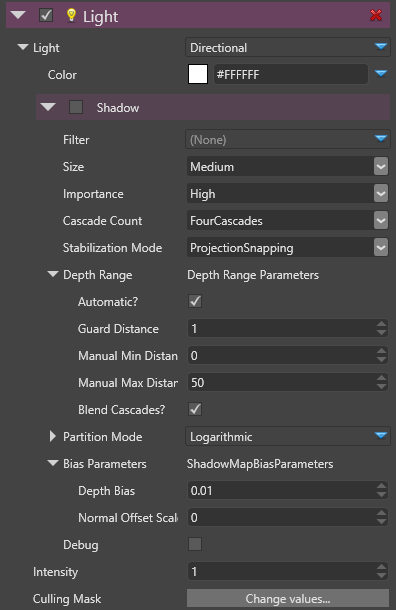
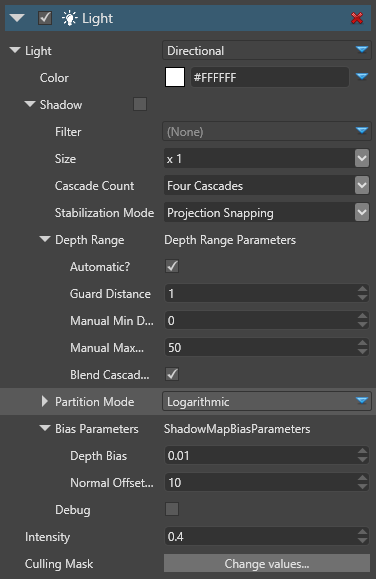
[Graphics] Update for shadow importance removal

diff --git a/manual/graphics/lighting-and-shadows/directional-lights.md b/manual/graphics/lighting-and-shadows/directional-lights.md
@@ -102,10 +102,9 @@ The colors shows the selected cascade texture for each distance range (Green:0, 
 | Filter              | Filtering allows to produce **soft shadows** instead of **hard shadows**. Currently, the implemented technique is PCF (Percentage Closer Filtering)                                                                               |
 |                     |                                                                                                                                                                                                                                   |
 |                     | *Note: Other techniques will be added*                                                                                                                                                                                            |
-| Size                | The size of the shadow map texture. Values are **large**, **medium** and **small**.                                                                                                                                               |
-| Importance          | The visual importance of this shadow map. Values are **high**, **medium** and **low**. See [shadow map atlas size calculation](shadows-optimizations.md) for details.                                                             |
+| Size                | The size of the shadow map texture. Values are **extra large**, **large**, **medium**, **small** and **extra small**. See [shadow map atlas size calculation](shadows-optimizations.md) for details.                              |
 |                     |                                                                                                                                                                                                                                   |
-|                     | For a directional light, this value is by default **high**, as a directional light has more visual impact than a range limited light.                                                                                             |
+|                     | For a directional light, this value is by default **large**, as a directional light has more visual impact than a range limited light.                                                                                            |
 | Cascade Count       | The number of cascades used for slicing the range of depth covered by the light. Values are 1, 2 or 4 cascades, though a typical scene would use 4 cascades.                                                                      |
 | Stabilization mode  | Defines the technique used to lower the effect of shadow map flickering. Values are **none**, **Projection Snapping** and **View Snapping**.                                                                                      |
 |                     |                                                                                                                                                                                                                                   |

diff --git a/manual/graphics/lighting-and-shadows/point-lights.md b/manual/graphics/lighting-and-shadows/point-lights.md
@@ -39,10 +39,10 @@ Properties that defines a point light:
 | Filter              | Filtering allows to produce **soft shadows** instead of **hard shadows**. Currently, the implemented technique is PCF (Percentage Closer Filtering) |
 |                     |                                                                                                                                                     |
 |                     | *Note: Other techniques will be added*                                                                                                              |
-| Size                | The size of the shadow map texture. Values are **large**, **medium** and **small**.                                                                 |
-| Importance          | The visual importance of this shadow map. Values are **high**, **medium** and **low**. See shadow map atlas size calculation for details.           |
+| Size                | The size of the shadow map texture. Values are **extra large**, **large**, **medium**, **small** and **extra small**.                               |
+|                     | See [shadow map atlas size calculation](shadows-optimizations.md) for details.                                                                      |
 |                     |                                                                                                                                                     |
-|                     |  *For a point light, this value is by default to **low**.*                                                                                          |
+|                     |  *For a point light, this value is by default to **small**.*                                                                                        |
 | Bias Parameters     | These parameters are used to avoid some artifacts of the shadow map technique                                                                       |
 | Depth Bias          | The amount of depth to add to the sampling depth to avoid the phenomenon of shadow acne.                                                            |
 | Normal Offset Scale | A factor multiplied by the depth bias toward the normal                                                                                             |

diff --git a/manual/graphics/lighting-and-shadows/spot-lights.md b/manual/graphics/lighting-and-shadows/spot-lights.md
@@ -35,8 +35,8 @@ Properties that defines a spot light:
 | Filter              | Filtering allows to produce **soft shadows** instead of **hard shadows**. Currently, the implemented technique is PCF (Percentage Closer Filtering)                   |
 |                     |                                                                                                                                                                       |
 |                     | *Note: Other techniques will be added*                                                                                                                                |
-| Size                | The size of the shadow map texture. Values are **large**, **medium** and **small**.                                                                                   |
-| Importance          | The visual importance of this shadow map. Values are **high**, **medium** and **low**. See[ shadow map atlas size calculation](shadows-optimizations.md) for details. |
+| Size                | The size of the shadow map texture. Values are **extra large**, **large**, **medium**, **small** and **extra small**.                                                 |
+|                     | See [shadow map atlas size calculation](shadows-optimizations.md) for details.                                                                                        |
 |                     |                                                                                                                                                                       |
 |                     |  For a spot light, this value is by default **medium**, as a spot light has usually a medium visual impact.                                                           |
 | Bias Parameters     | These parameters are used to avoid some artifacts of the shadow map technique                                                                                         |

diff --git a/manual/graphics/lighting-and-shadows/shadows-optimizations.md b/manual/graphics/lighting-and-shadows/shadows-optimizations.md
@@ -8,34 +8,21 @@ Each lights with an enabled shadow gets a region of this map atlas texture.
 
 The size of this region depends on several factors:
 
-- The `shadowImportanceFactor` based on the `LightComponent.Importance` property:
+- The `shadowMapSizeFactor` based on the `LightShadowMap.Size` property:
 
-| Shadow Importance | Shadow Importance Factor                |
-| ----------------- | --------------------------------------- |
-| High              | 2.0 (by default for Directional lights) |
-| Medium            | 1.0 (by default for Spot lights)        |
-| Low               | 0.5 (by default for Omni lights)        |
-
-
-- The `shadowMapSizeFactor` based on the `LightComponent.Size` property:
-
-| Shadow Size | Shadow Importance Factor |
-| ----------- | ------------------------ |
-| Large       | 1.0                      |
-| Medium      | 0.5                      |
-| Small       | 0.25                     |
+| Shadow Size | Shadow Importance Factor             |
+| ----------- | ------------------------------------ |
+| XLarge      | 2.0                                  |
+| Large       | 1.0 (default for directional lights) |
+| Medium      | 0.5 (default for spot lights)        |
+| Small       | 0.25 (default for omni lights)       |
+| XSmall      | 0.125                                |
 
 
 - The projected size of the light in screen-space (`lightSize`). 
   - For the directional light, the lightSize is equal to the max(screenWidth, screenHeight)
   - For the spot light, the lightSize is equal to the projection of the projected sphere at target spot light cone
 - The `ShadowMapBaseSize` equals to `1024` (In 1.1.x-beta, it is currently hardcoded, but it will use a dynamic value based on the shader profile / GPU memory)
-
- 
-
-> **Warning**
-> 
-> In order to simplify the parametrization, the Shadow Importance property will be merged into the Shadow Size property in a future release.    
 
  
 
